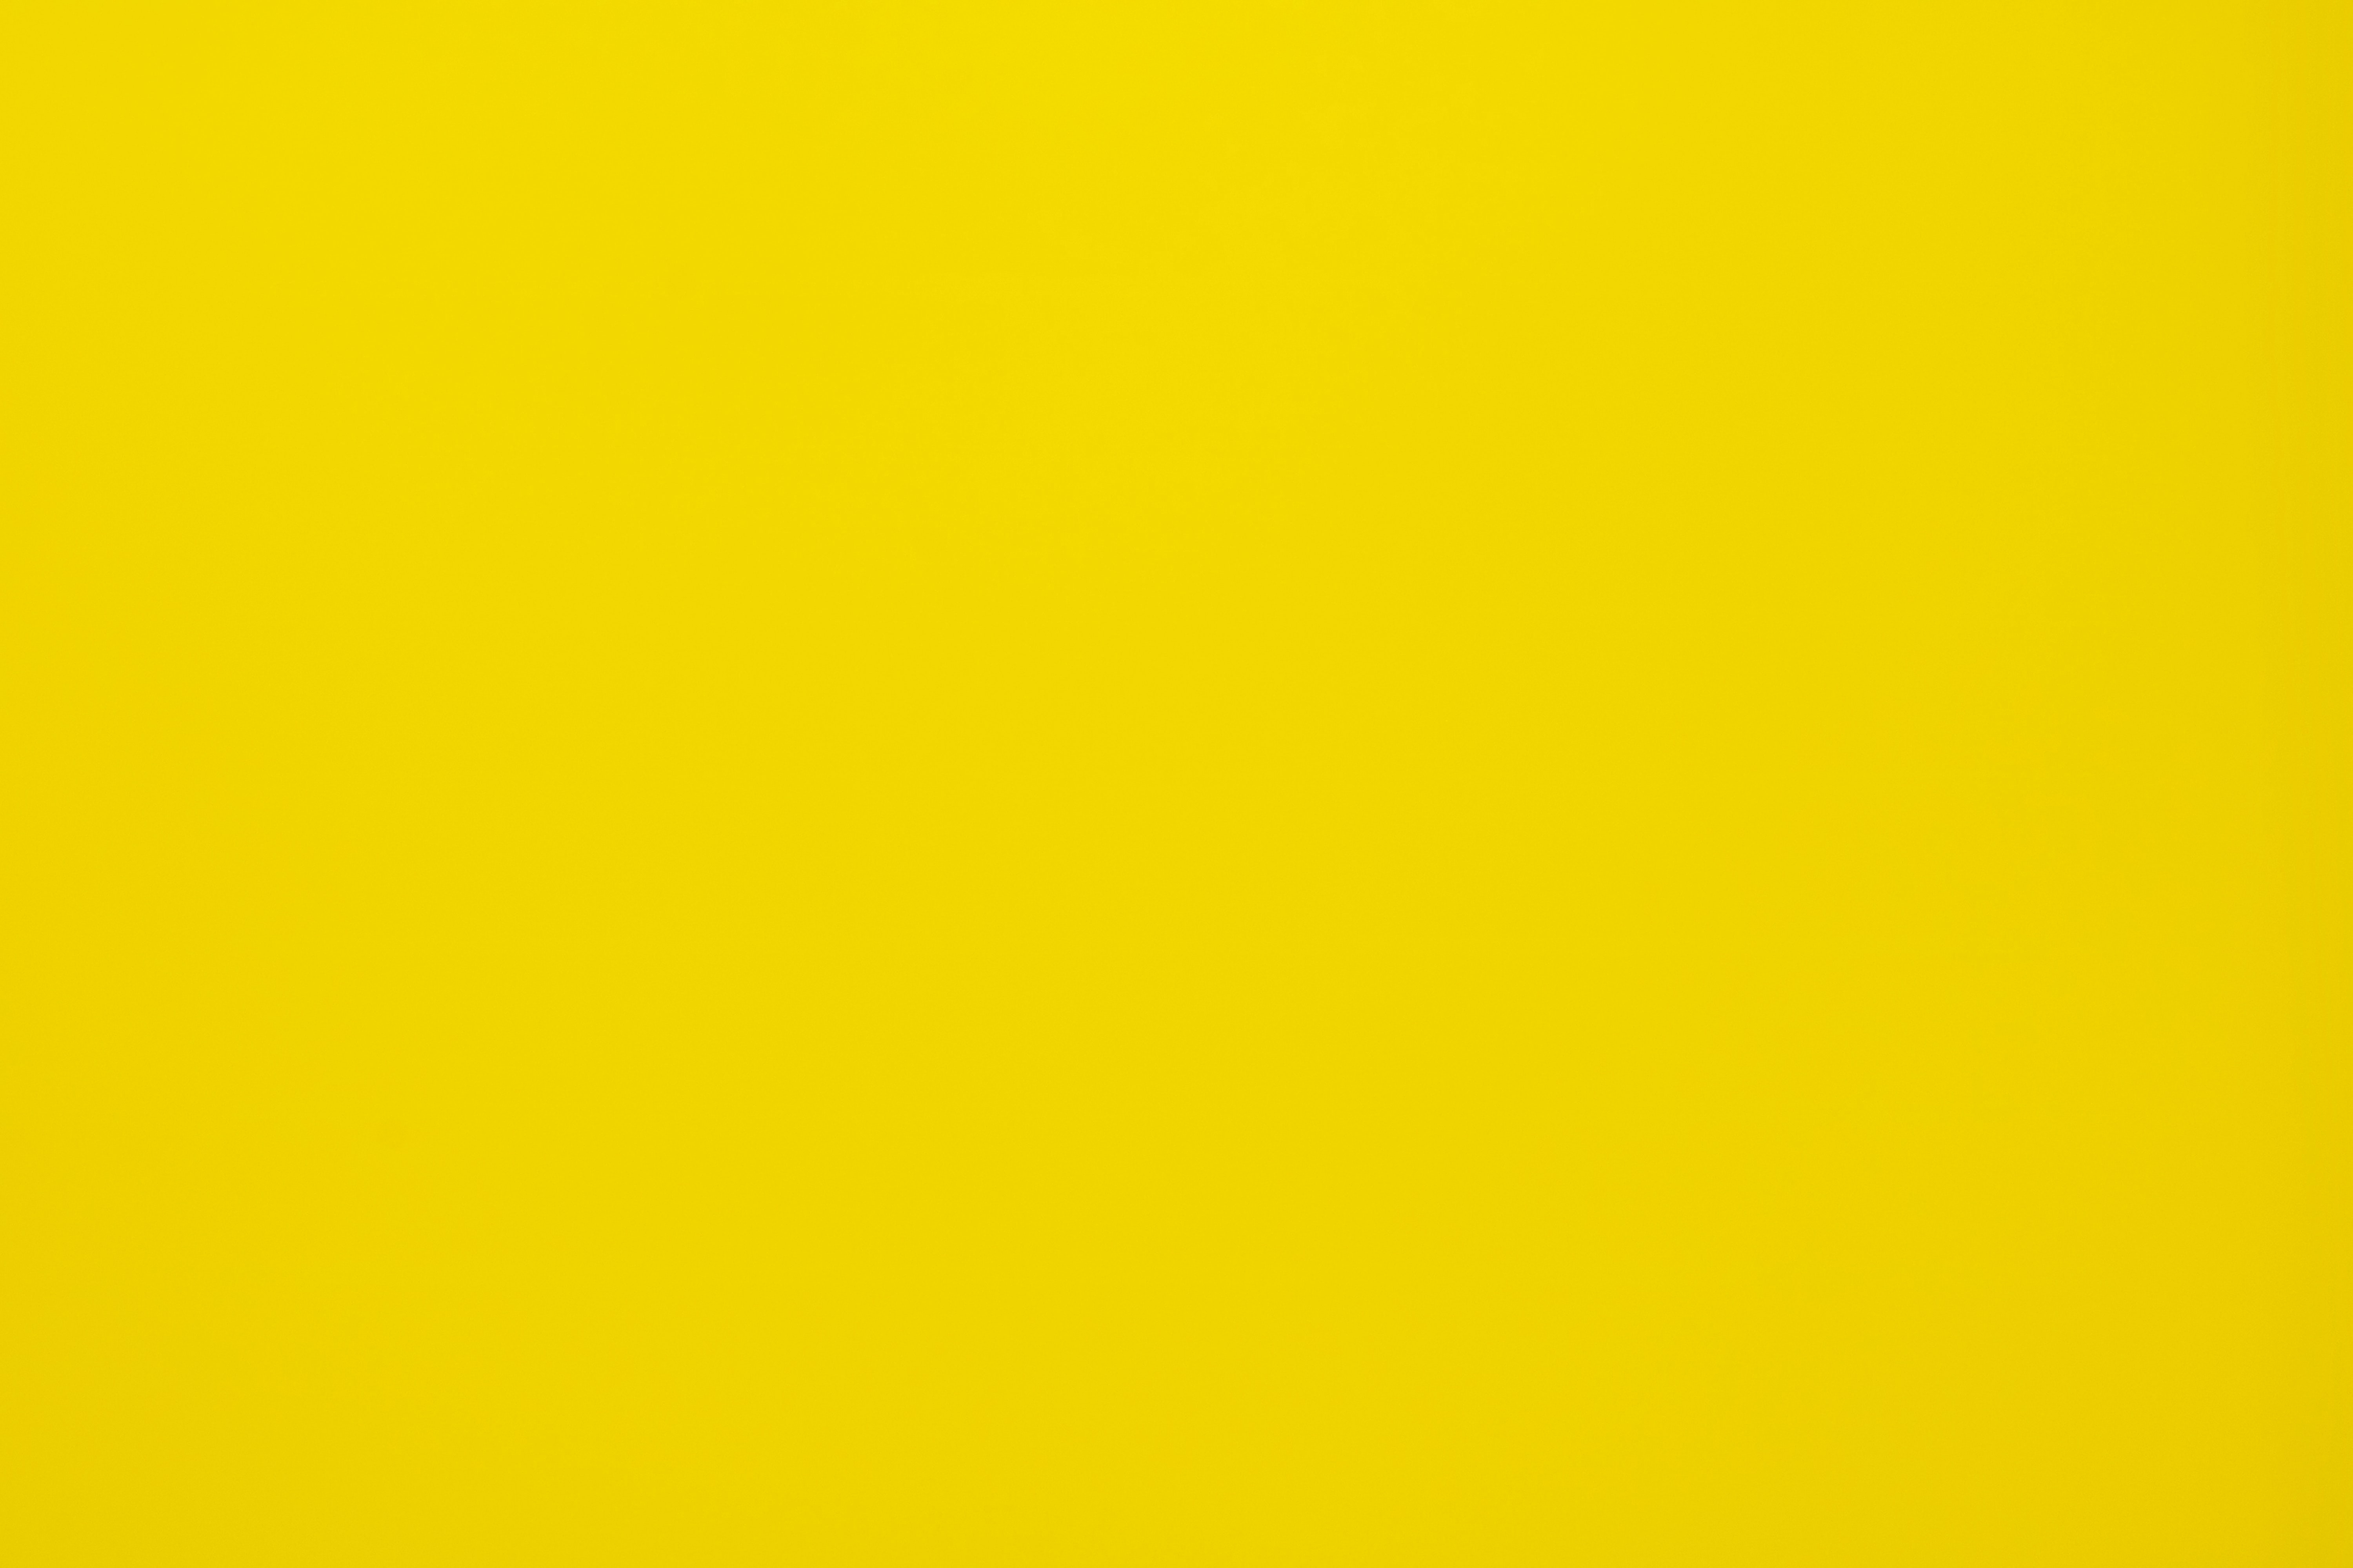
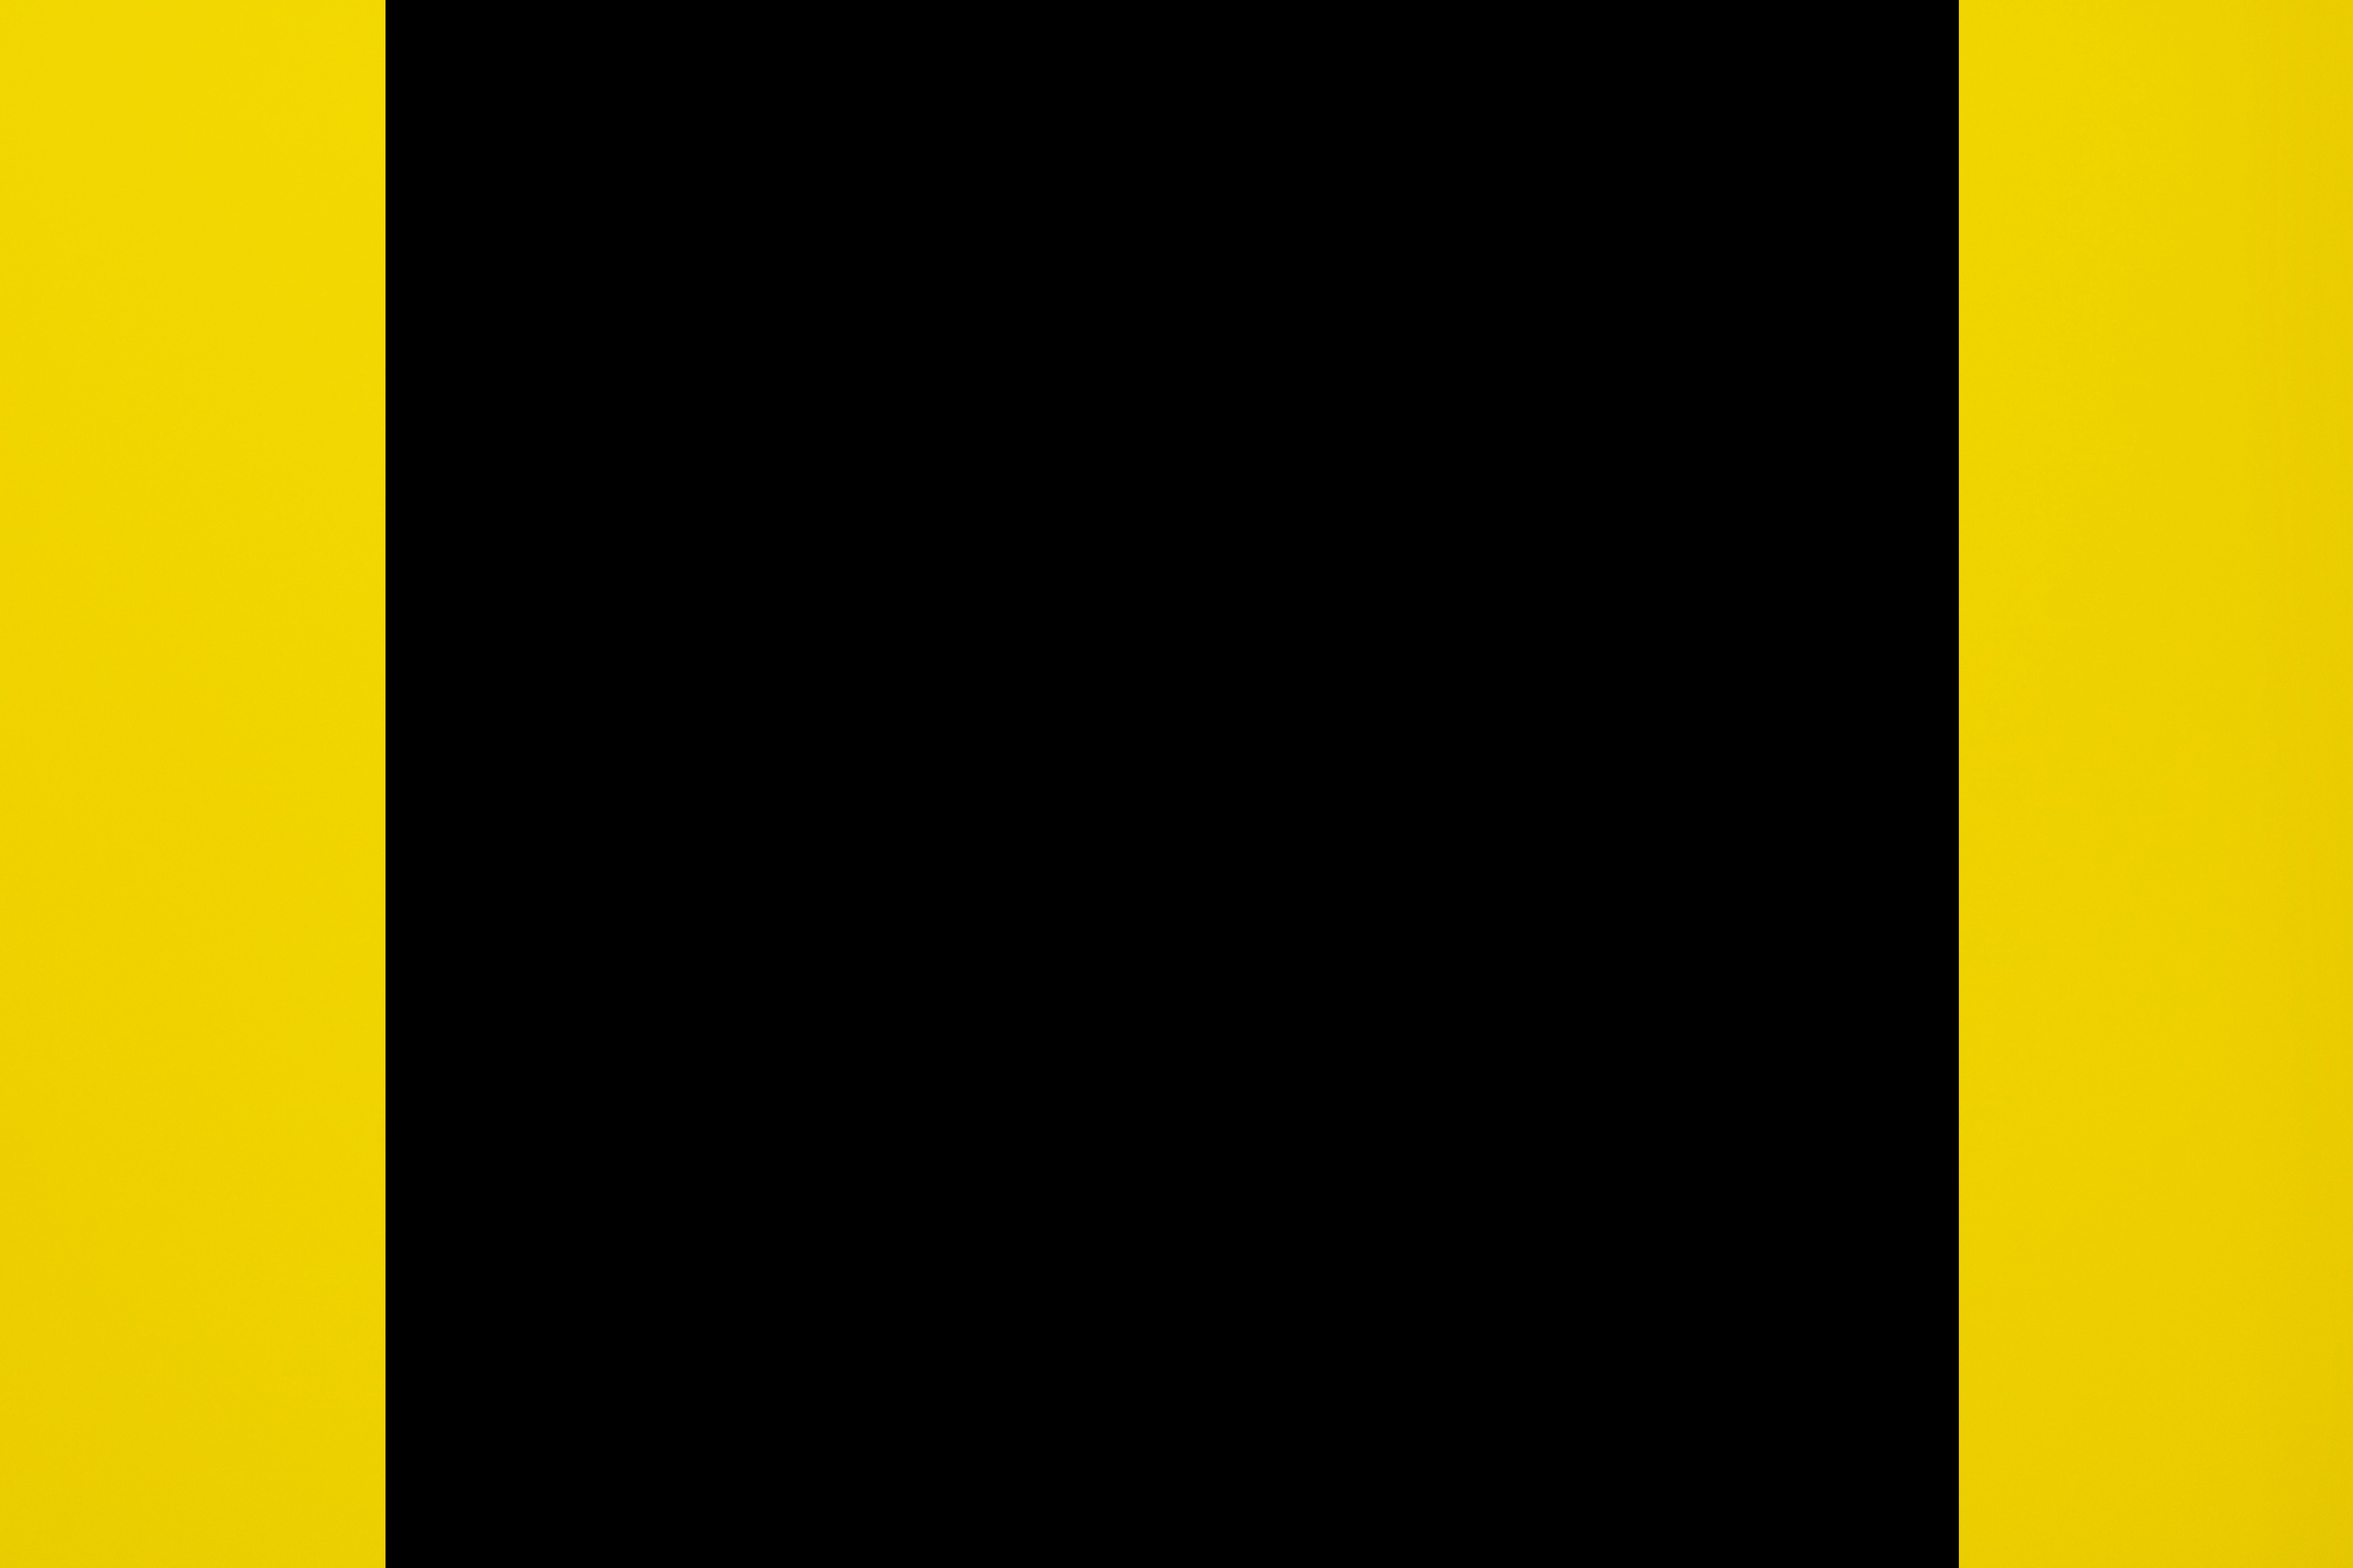
style

diff --git a/index.html b/index.html
@@ -37,22 +37,25 @@
         <div class="container">
           <img src="pictures/yellow.jpg" alt="jente med ukrainsk flagg" style="width:100%;">
           <div class="center1">
-            <h1>Ukrainske Elizabeth Makurina (16) om den Norske skolen – «Vi har ikke fraværsgrense»</h1>
-            <p class="b">Mie Marielle Øverås Vitting
-              Publisert 08.09.22
+            <h1>Ukrainske Elizabeth Makurina (16) om den norske skolen – «Vi har ikke fraværsgrense»</h1>
+            <p class="b"> Forfatter: Mie Marielle Øverås Vitting</p>
+             <p class="b"> Publisert av: Jennie-Lovise N Bjerke & Alexander Olsen, 08.09.22
               </p>
               <h3>I Sarpsborg bor den nyinnflyttede ukrainske Elizabeth Etternavn (16) som nå har startet på Greåker Videregående Skole. Hun er en av tre ukrainske elever i sin klasse som har kommet til Norge på grunn av den pågående krigen i hjemlandet, og synes det er spennende med forskjellene fra det Norske til det Ukrainske skolesystemet.</h3>
               <p>Hva mener du er den største forskjellen på det norske og ukrainske skolesystemet? </p>
                 <p> - Helt klart at man kan kle seg i hva man vil, fordi i Ukraina hadde vi en slags uniform, vi måtte kle oss enten i svart, hvitt eller grått. Det var vanskelig å finne hva man skulle ha på seg første skoledag her i Norge.
               </p>
               <p>I Ukraina trenger man ikke møte fysisk til forelesningene, men man har test i fagene en gang i halvåret.</p>
-                <p> -	Vi har ikke fraværsgrense. I Ukraina kan man være borte fra skolen i tre dager uten å måtte ha noe som helst form for dokumentasjon. Jeg syntes det var litt strengt her i Norge med tanke på at man får fravær hvis man ikke er til stede, og at dette kan gå utover sluttkarakteren i faget, tilføyer Elizabeth.
-          
+                <p> 
+                  <blockquote>"Vi har ikke fraværsgrense. I Ukraina kan man være borte fra skolen i tre dager uten å måtte ha noe som helst form for dokumentasjon. Jeg syntes det var litt strengt her i Norge med tanke på at man får fravær hvis man ikke er til stede, og at dette kan gå utover sluttkarakteren i faget, tilføyer Elizabeth."</blockquote>
+                 
+                  <br>
+                  <p><img src="pictures/hovedbilde2.jpg" alt="skole" style="width:90%;"></p> 
 
             </div>
         </div>
         <div class="container">
-          <img src="pictures/plane.jpg" alt="Nature" style="width:100%;">
+          <img src="pictures/black-background.jpg" alt="Nature" style="width:100%;">
           <div class="center2">
          <h3> Forventet mer skolearbeid</h3>
 
@@ -61,15 +64,17 @@
           
           <p>Elizabeth går nå på norskkurs og gleder seg til å lære mer norsk og kunne kommunisere med de andre norske elevene. I tillegg liker hun hvor fritt det norske skolesystemet er:</p>
           
-          
-          <p>-	lærerne her er mye yngre enn i Ukraina, og det gjør det lettere å kommunisere med de da jeg på en måte kan se på de som en venn og føler de forstår meg mer enn de eldre lærerne i Ukraina.
+          <p>- Lærerne her er mye yngre enn i Ukraina, og det gjør det lettere å kommunisere med de da jeg på en måte kan se på de som en venn og føler de forstår meg mer enn de eldre lærerne i Ukraina.
           
           Hun avslutter med å fortelle at hun ser frem til skolegangen i Norge og hva den har å by på, selv med en stor forandring er hun motivert og takknemlig for muligheten.
           
-          
+           <br>
            </p>
-           <p><img src="pictures/ukraina.jpg" alt="bilde ukraina" style="width:100%;"></p>
-           
+           <p><img src="pictures/hovedbilde1.jpg" alt="jente utenfor skole" style="width:100%;"></p>
+           <p><cite>jente utenfor skole</cite> Ukrainske Elizabeth Makurina(16) er glad for å ha muligheten til å begynne på skolen i Norge. Foto: Mie Marielle Øverås Vitting.</p>
+           <br>
+           <br>
+           <p>Publisert 16.09.2022 kl. 09:00</p>
           </div>
         </div>
     </section>

diff --git a/style.css b/style.css
@@ -30,45 +30,60 @@ body {
 
 h2{
   color:white;
-  background-color: #111;
+  background-color: #000;
+  text-align-last: center;
 }
 
 h3{
   color: #fff;
-  background-color: #111;
+  background-color: #000;
+  text-align-last: center;
 }
 
 h1{
   color:white;
   text-align-last: center;
-  background-color: #111;
+  background-color: #000;
 }
 
 p{
     max-width: 60rem;
     color:white;
     text-align-last: center;
-    background-color: #111;
+    background-color: #000;
 }
 
 p.b {
   font-style: italic;
-  background-color: #111;
+  background-color: #000;
+  text-align-last: center;
 }
 
 p.c {
   font-style: oblique;
-  background-color: #111;
+  background-color: #000;
+  text-align-last: center;
 }
 p.thick {
   font-weight: bold;
+  background-color: #000;
+  text-align-last: center;
+
+}
+
+
+blockquote {
+  quotes: "“" "”" "‘" "’";
+  font-style: italic;
+  color:#fff;
   background-color: #111;
+  font-size: 15px;
 }
 
 #titleBox {
  
     width: 100%;
-    min-height: 100vh;
+    min-height: 50vh;
     background-image: url("pictures/gruppe3.jpg");
     background-size: cover;
     background-attachment: fixed;
@@ -88,7 +103,6 @@ p.thick {
   position: absolute;
   top: 50%;
   left: 50%;
-  bottom:1%;
   transform: translate(-50%, -50%);
   font-size: 14px; color: #fff;
   text-align-last: center;
@@ -133,7 +147,8 @@ img {
 #div { 
   background: rgb(0, 0, 0);
   max-width: 100%;
-  padding: 1rem;
+  padding-left: 20px;
+  padding-right: 20px;
   color: #fff;
   text-align: center;
   margin: 0 auto 20vh auto;
